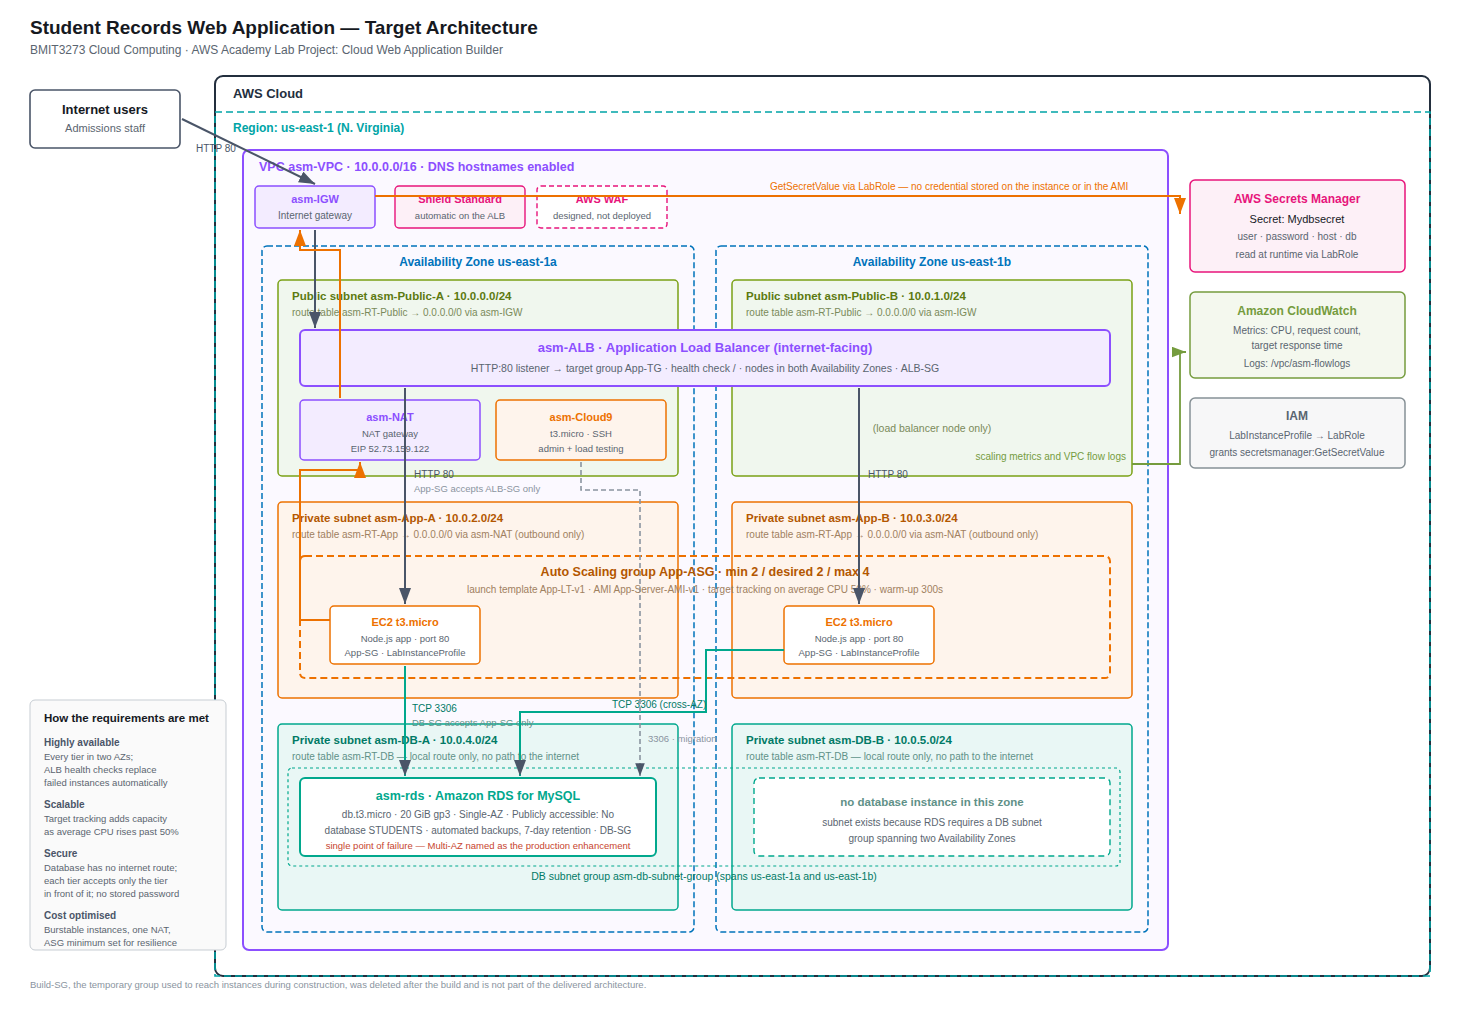
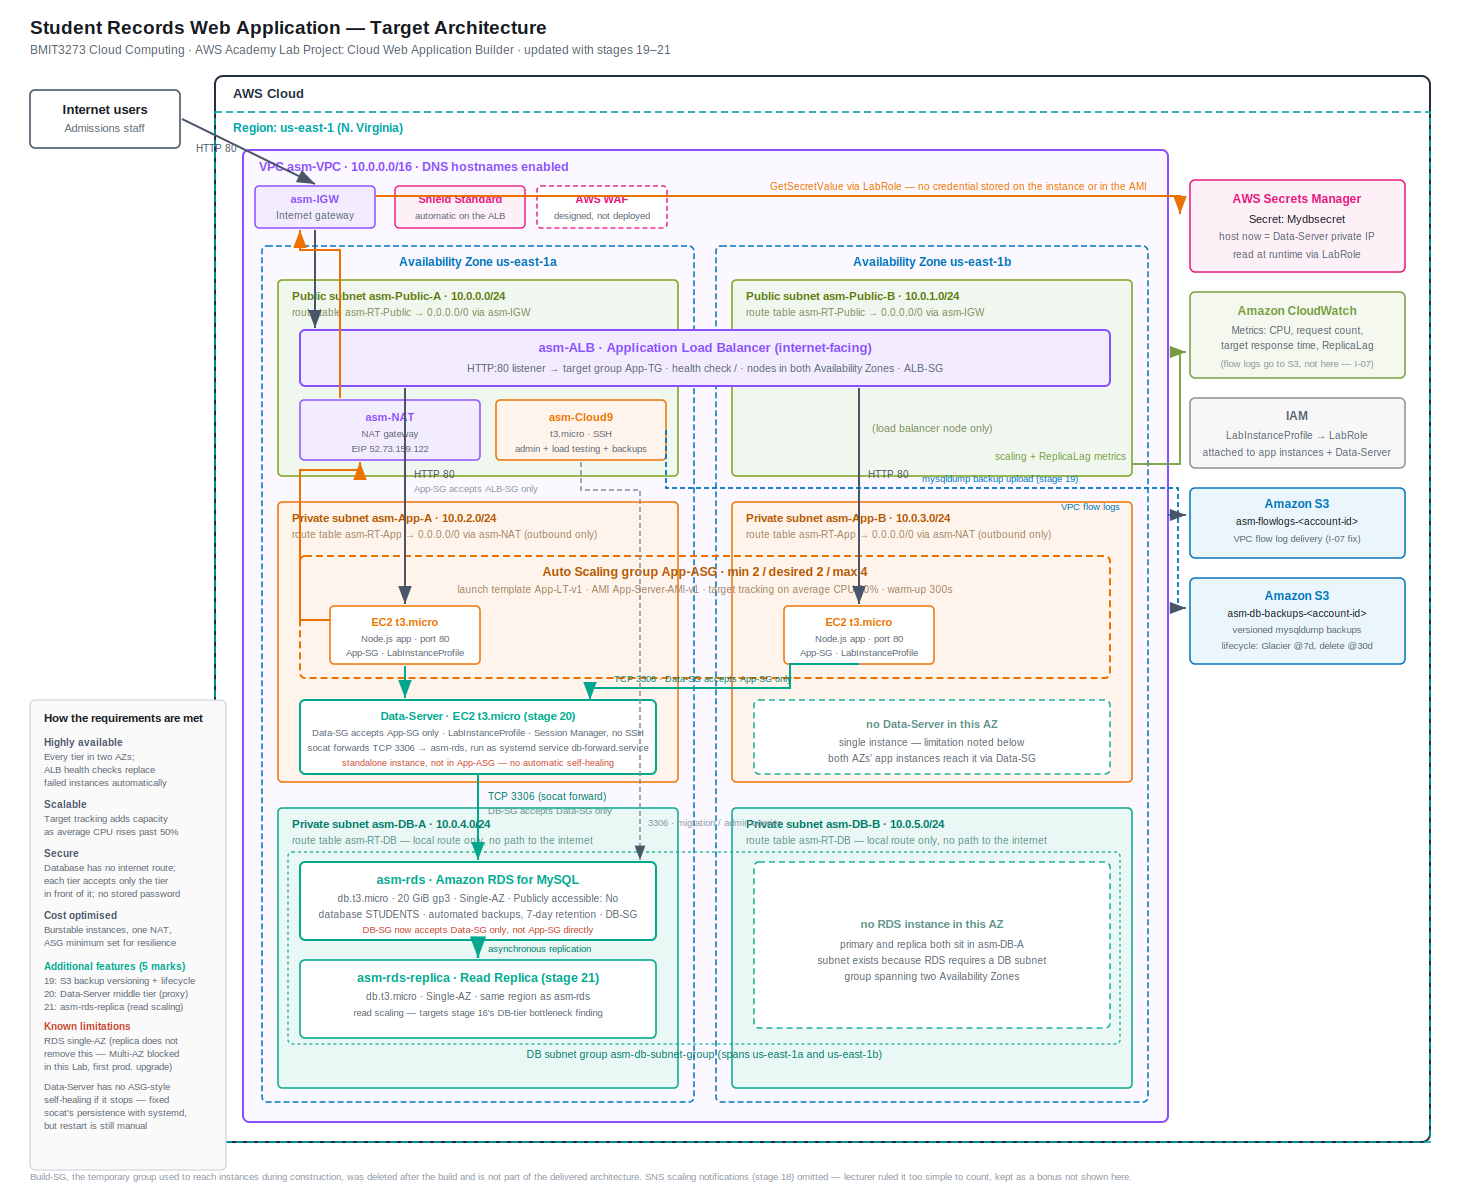
Update architecture diagram for stages 19-21 and the I-07 fix
The diagram (spec, SVG, and rendered PNG) previously only reflected
the original 17-stage build. Added Data-Server as a standalone
middle-tier instance outside the ASG bracket, asm-rds-replica
alongside the primary, the two S3 buckets (flow logs and versioned
backups), corrected the flow logs destination from CloudWatch Logs to
S3 (I-07), and updated the DB-SG/Data-SG connections to match the
actual request path. Legend now lists the three counted additional
features and the two known limitations (RDS single-AZ, Data-Server's
lack of ASG-style self-healing).

Claude-Session: https://claude.ai/code/session_01E28KNCMg4oxXhPv1b9nDk6

Changed region(s): [[0.0, 0.0, 0.9863, 0.9822], [0.9555, 0.9515, 0.9863, 0.9822]]

diff --git a/docs/architecture-diagram-spec.md b/docs/architecture-diagram-spec.md
@@ -1,7 +1,9 @@
 # Architecture diagram specification (evidence HA-1)
 
 Everything the diagram must show, taken from what was actually built rather than from the plan.
-Cross-checked against `evidence/values.md` on 1 September 2026.
+Cross-checked against `evidence/values.md` on 1 September 2026, and updated 5 Sep 2026 to add the
+three counted additional features (stages 19–21) and correct the flow logs destination (stage 15,
+issue I-07). If you are redrawing this for the report, this version — not the original — is current.
 
 The assignment brief asks for the **official AWS architecture icons**, so the recommended route is
 to redraw this in Lucidchart, which is available from the Lucid (Whiteboard) link in your AWS Academy
@@ -38,17 +40,21 @@ showing that is what distinguishes an understood diagram from a copied one.
 | Auto Scaling group `App-ASG` | spans `asm-App-A` and `asm-App-B` | min 2, desired 2, max 4, t3.micro, `App-SG` |
 | `asm-rds` | `asm-DB-A` | MySQL db.t3.micro, single AZ, not publicly accessible, `DB-SG`, 7-day backups |
 | DB subnet group | spans both DB subnets | `asm-DB-B` holds no instance but is required by RDS |
-| AWS Secrets Manager | **outside the VPC**, regional | holds `Mydbsecret` |
-| Amazon CloudWatch | **outside the VPC**, regional | scaling metrics, and the `/vpc/asm-flowlogs` log group |
-| IAM role `LabRole` via `LabInstanceProfile` | attached to the app instances | how they read the secret without stored credentials |
+| AWS Secrets Manager | **outside the VPC**, regional | holds `Mydbsecret` — `host` field now points at `Data-Server`'s private IP, not `asm-rds` directly |
+| Amazon CloudWatch | **outside the VPC**, regional | scaling metrics only (ASG CPU, ALB request count/latency, `ReplicaLag`) — **not** flow logs, see the corrected row below |
+| Amazon S3 | **outside the VPC**, regional | two separate buckets: `asm-flowlogs-<account-id>` (VPC flow log delivery, since CloudWatch Logs delivery is blocked for this Lab's role — issue I-07) and `asm-db-backups-<account-id>` (versioned `mysqldump` backups with a lifecycle rule, stage 19) |
+| IAM role `LabRole` via `LabInstanceProfile` | attached to the app instances **and** `Data-Server` | how they read the secret without stored credentials |
 | AWS Shield Standard | at the ALB | automatic on every ALB, nothing to configure |
 | AWS WAF | at the ALB, **dashed outline** | designed but not deployed, lab restriction. Label it as such |
+| `Data-SG` security group + `Data-Server` EC2 | inside `asm-App-A` (same subnet as the app instances, not a new subnet tier) | t3.micro, `LabInstanceProfile` for Session Manager access (no SSH), runs `socat` as a persistent systemd service forwarding TCP 3306 to `asm-rds`. **Draw outside the `App-ASG` bracket** — it is a standalone instance, not part of the Auto Scaling group, and has no self-healing of its own |
+| `asm-rds-replica` | `asm-DB-A`, alongside `asm-rds` | db.t3.micro, Single-AZ, read replica of `asm-rds`, same region (stage 21) |
 
 **`Build-SG` does not appear.** It is deleted at stage 17 and is not part of the delivered
 architecture.
 
 `asm-DB-B` should be drawn empty but present, labelled something like "required by DB subnet group".
-An examiner who notices an unused subnet and finds it explained will read that as deliberate.
+An examiner who notices an unused subnet and finds it explained will read that as deliberate. The read
+replica does not change this — it is also single-AZ, in `asm-DB-A` alongside the primary.
 
 ### Connections to draw
 
@@ -56,14 +62,19 @@ An examiner who notices an unused subnet and finds it explained will read that a
 |---|---|---|
 | Internet users | `asm-IGW` → `asm-ALB` | HTTP 80 |
 | `asm-ALB` | app instances in both AZs | HTTP 80, `App-SG` accepts only `ALB-SG` |
-| App instances | `asm-rds` | TCP 3306, `DB-SG` accepts only `App-SG` |
+| App instances | `Data-Server` | TCP 3306, `Data-SG` accepts only `App-SG` — **this replaces the old direct App-to-RDS arrow** |
+| `Data-Server` | `asm-rds` | TCP 3306 (via `socat`), `DB-SG` now accepts only `Data-SG`, not `App-SG` directly |
+| `asm-rds` | `asm-rds-replica` | asynchronous replication (not application traffic — draw distinctly, e.g. a different line style) |
 | App instances | `asm-NAT` → `asm-IGW` → Secrets Manager | outbound only, to fetch `Mydbsecret` |
 | `asm-Cloud9` | `asm-rds` | TCP 3306, migration and verification |
-| VPC | CloudWatch Logs | VPC flow logs |
-| `App-ASG` / `asm-ALB` | CloudWatch | metrics driving target tracking |
+| VPC | Amazon S3 (`asm-flowlogs-*`) | VPC flow logs — corrected destination, was shown as CloudWatch Logs, now S3 (I-07) |
+| `App-ASG` / `asm-ALB` / `asm-rds-replica` | CloudWatch | metrics driving target tracking, plus `ReplicaLag` |
+| Cloud9 (or app tier) | S3 (`asm-db-backups-*`) | `mysqldump` backup upload, versioned, lifecycle to Glacier then deletion |
 
 **Arrow direction matters.** The app-to-NAT path is outbound only. Drawing it as bidirectional
-contradicts your own C5 claim that nothing reaches the private subnets from outside.
+contradicts your own C5 claim that nothing reaches the private subnets from outside. The replication
+arrow (`asm-rds` → `asm-rds-replica`) is one-way and internal to RDS — do not draw it the same way as
+application traffic.
 
 ### Three things the diagram should make obvious at a glance
 
@@ -73,8 +84,17 @@ contradicts your own C5 claim that nothing reaches the private subnets from outs
 3. **No password anywhere in the application.** The credential arrives from Secrets Manager at
    runtime via the instance role.
 
-## Known limitation to note beside the diagram
+## Known limitations to note beside the diagram
 
-The database is single-AZ, so `asm-DB-A` is the one remaining single point of failure. Multi-AZ is
-blocked in the Learner Lab and is named in the report as the first production enhancement. Saying
-this next to the diagram is stronger than leaving a reader to spot it.
+The database is single-AZ, so `asm-DB-A` is the one remaining single point of failure — the read
+replica added at stage 21 helps with read scaling, but it is also single-AZ and does not remove this
+point of failure by itself. Multi-AZ is blocked in the Learner Lab and is named in the report as the
+first production enhancement. Saying this next to the diagram is stronger than leaving a reader to
+spot it.
+
+`Data-Server`, the middle-tier proxy added at stage 20, is a standalone EC2 instance, not part of an
+Auto Scaling group. Unlike the app tier, it has no automatic self-healing: if it stops (as happened
+when a Learner Lab session ended), nothing detects or restarts it. Worth naming as a deliberate,
+honestly-reported trade-off of this additional feature, alongside the fix applied (a systemd service
+so its `socat` forwarder survives a reboot, even though the instance itself must still be started
+manually).
